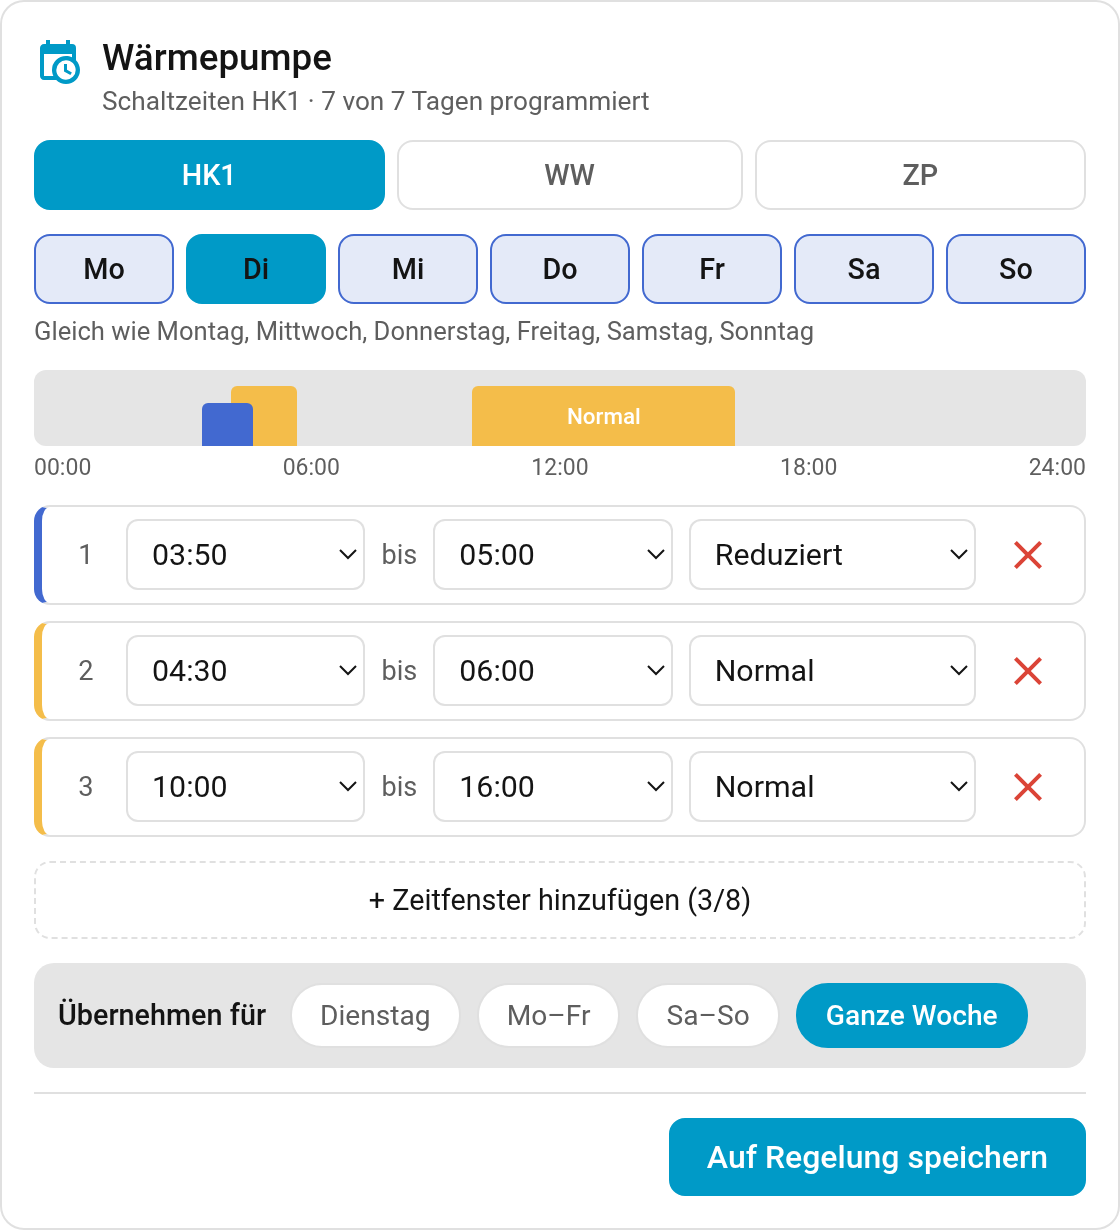
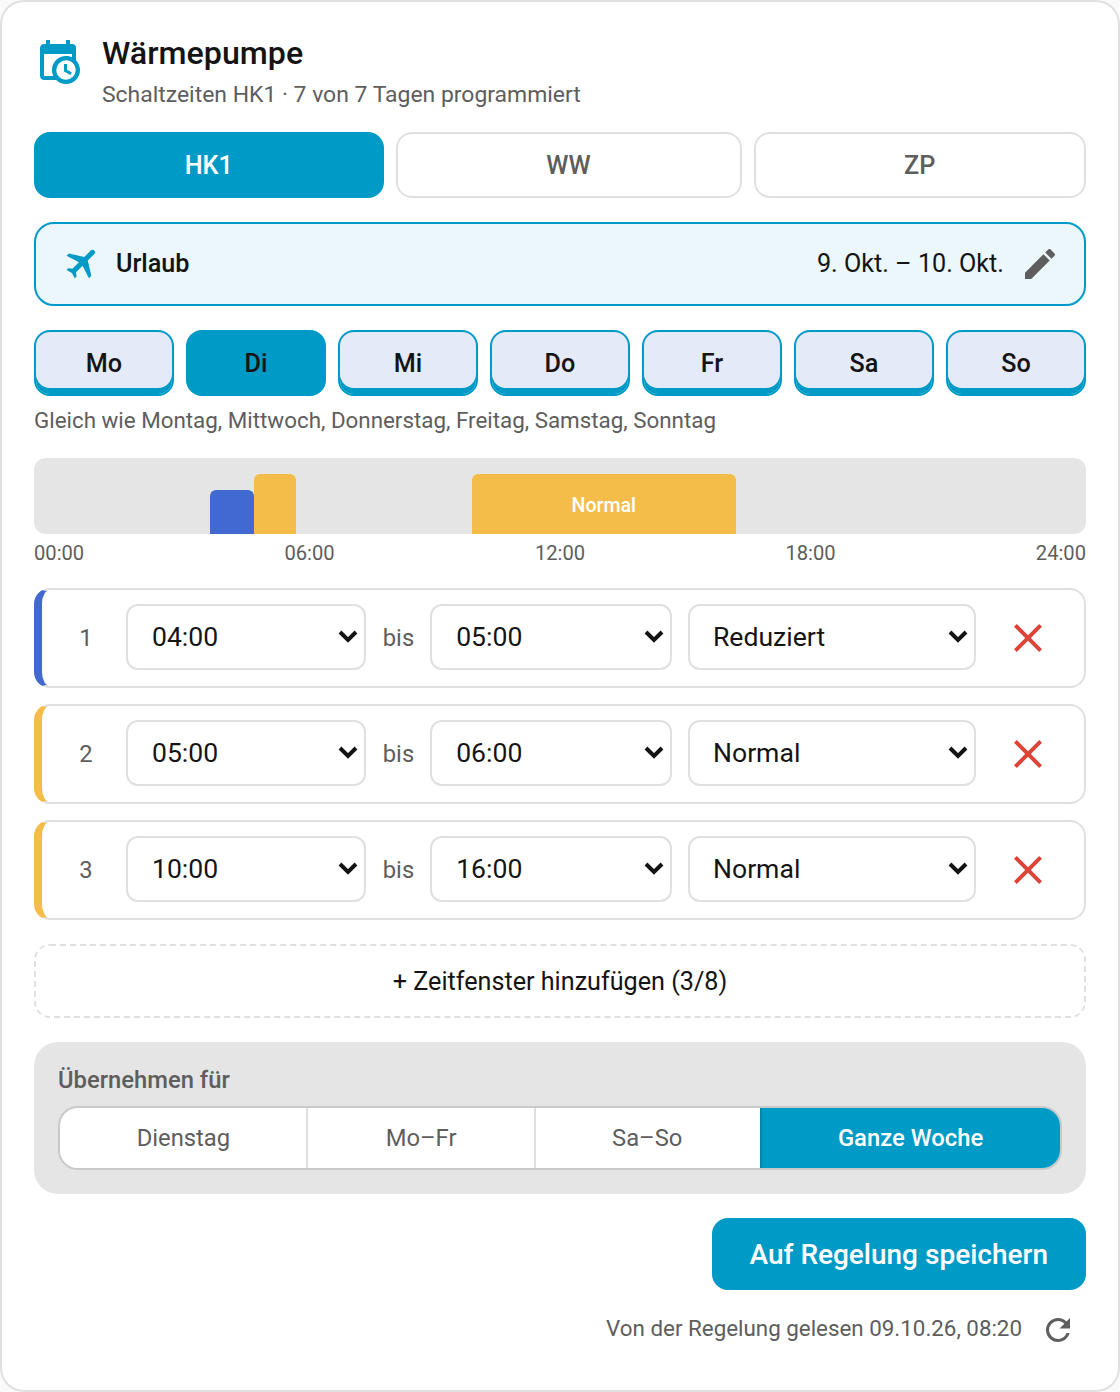
Show the holiday line and save panel in the card screenshot

diff --git a/docs/cards.md b/docs/cards.md
@@ -7,7 +7,8 @@ appear in the card picker with no manual setup.
 programme the controller has; the visual editor lets you pick a subset, name the tabs, and show
 a reading and a setpoint in the header. Editing is per day, with an *apply to* choice of the
 day, the working week, the weekend or the whole week, preselected from the pattern the week is
-already in.
+already in. Where the controller has a holiday for the circuit, it is a line above the week; tap
+it to set the first and last day.
 
 <img src="schedule-card.png"
      alt="OptoV Schedule card" width="560">
